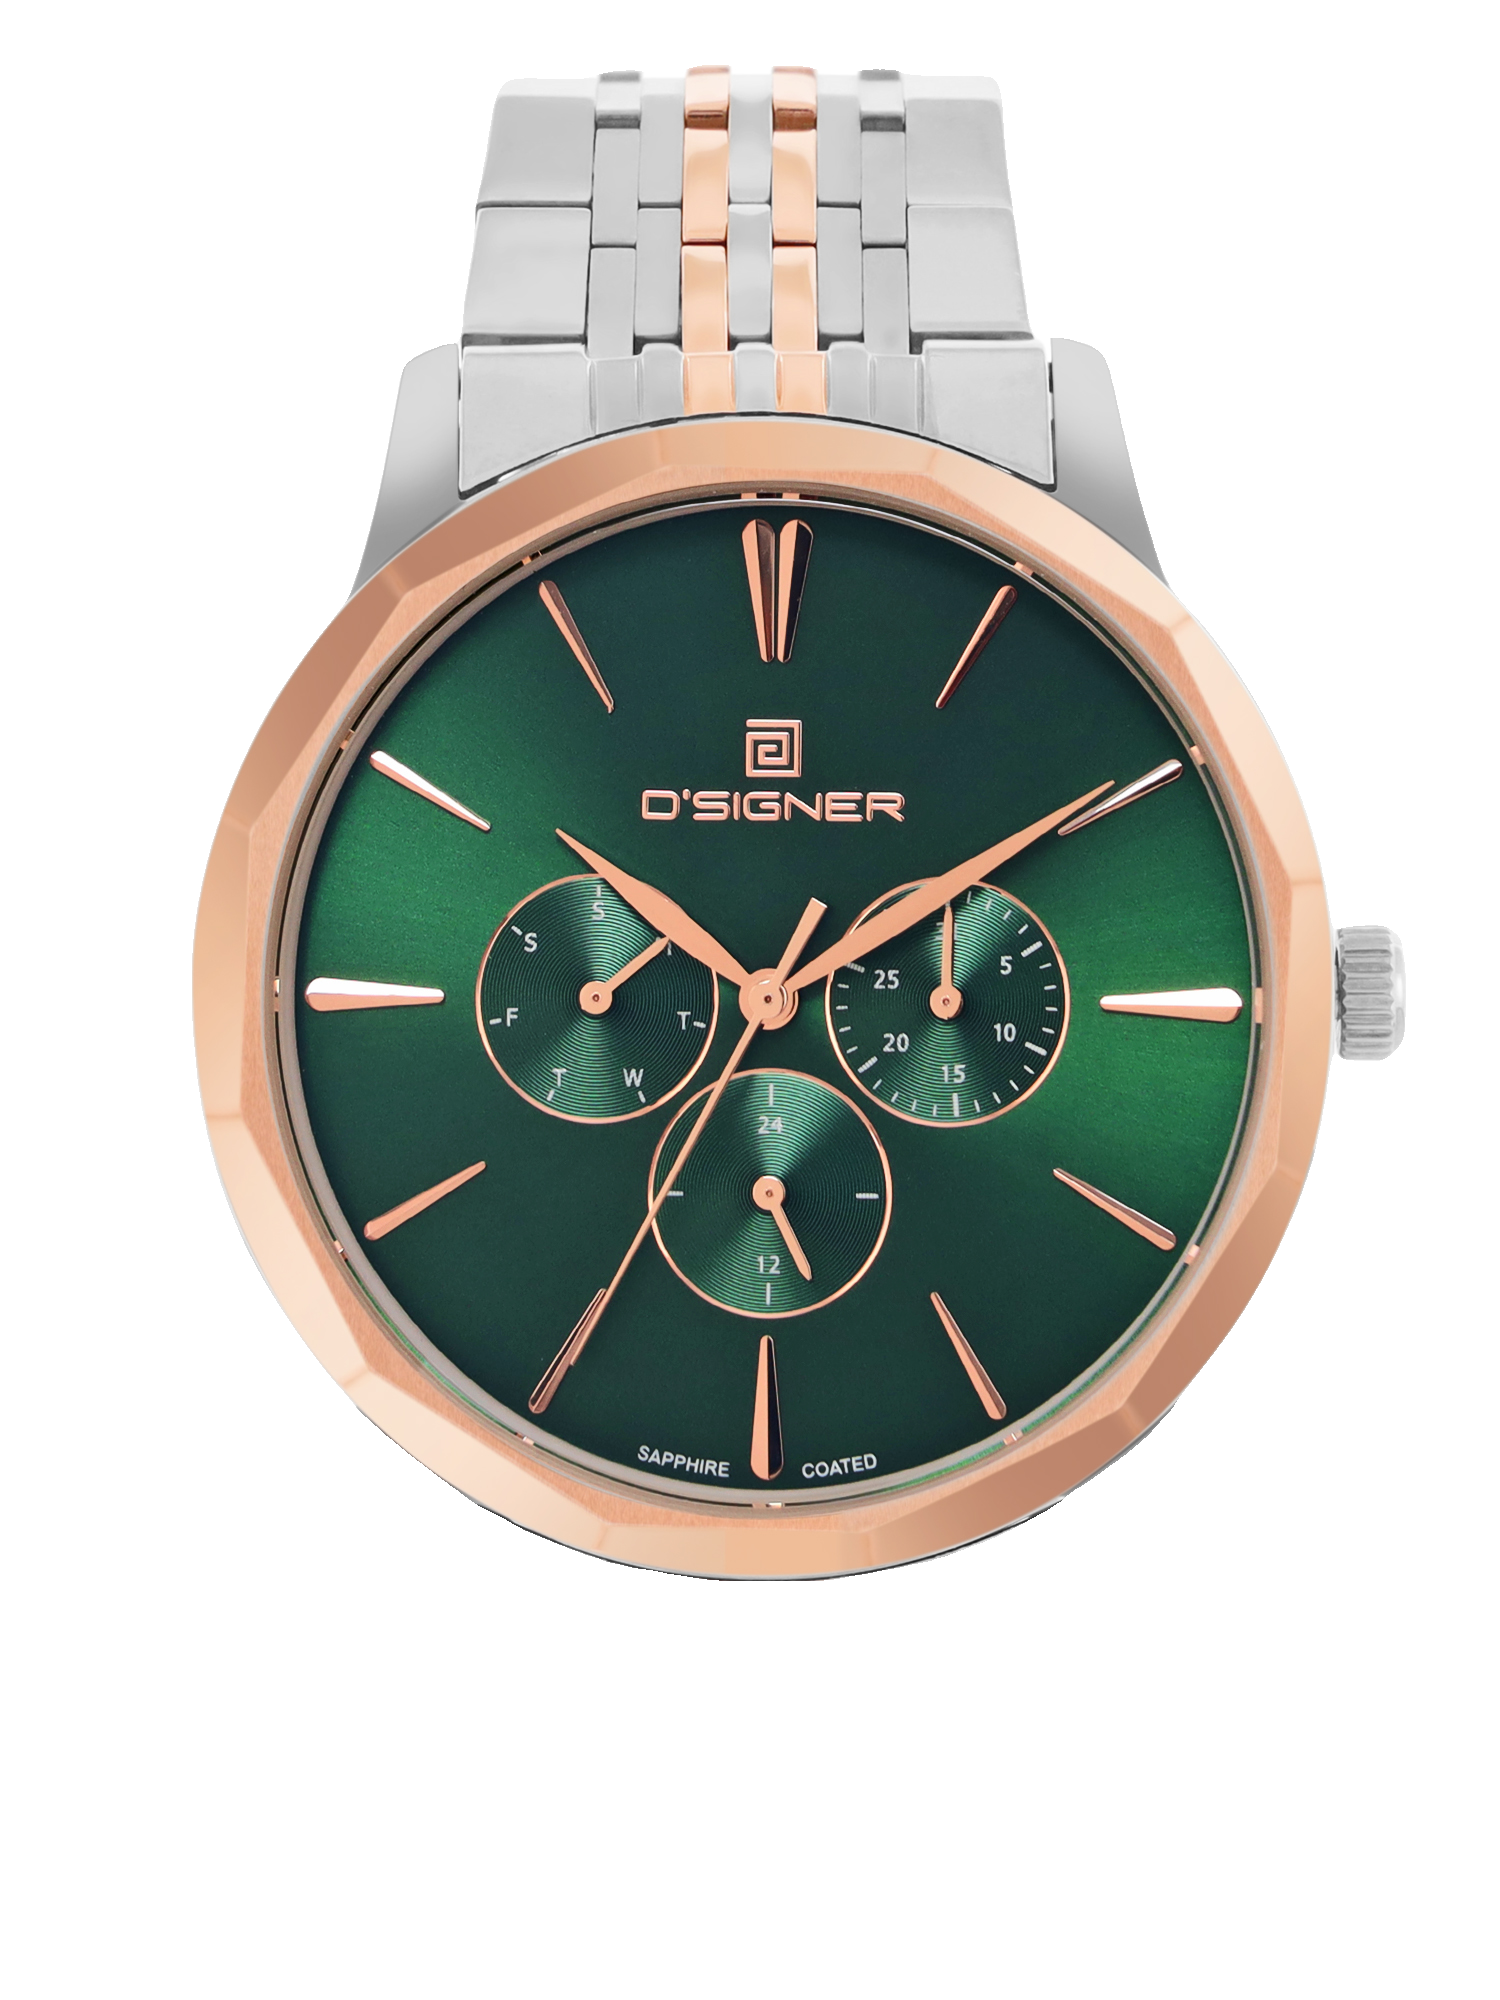
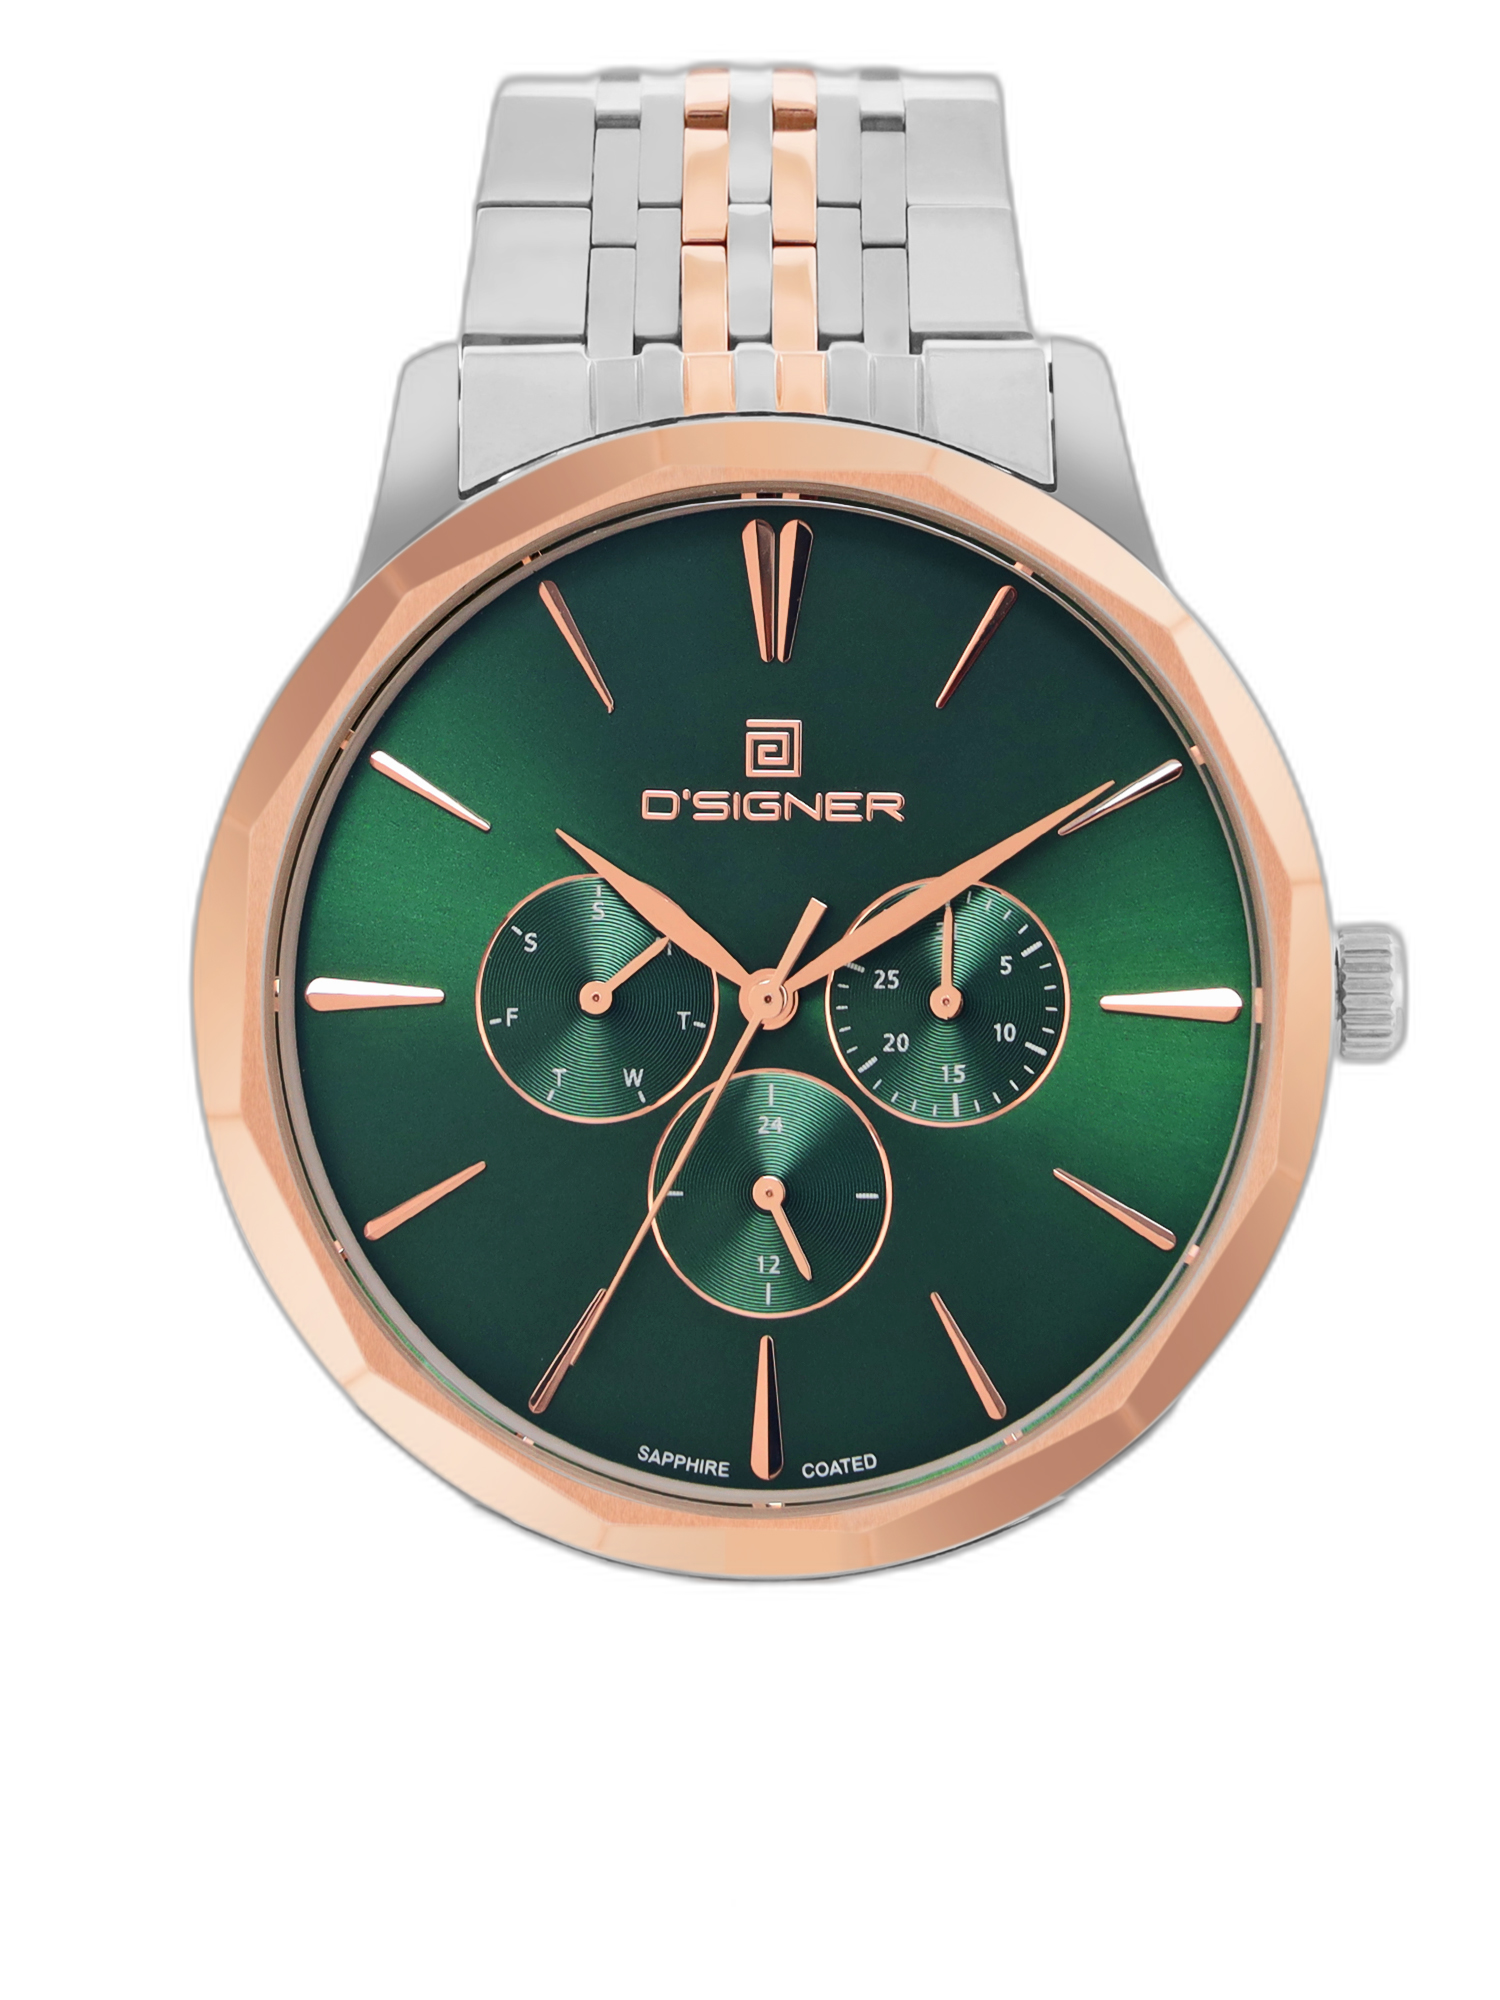
fix(images): isolate transparent backgrounds for all 869RTM.16G gallery perspectives

diff --git a/scripts/process_869rtm_gallery.py b/scripts/process_869rtm_gallery.py
@@ -1,0 +1,39 @@
+import os
+import json
+from PIL import Image
+import numpy as np
+from rembg import remove, new_session
+
+session = new_session("u2net")
+
+model = "869RTM.16G"
+src_dir = f"public/images/new-img/model-2/869/869/{model}"
+dst_dir = f"public/images/transparent-img/model-2/869/869/{model}"
+os.makedirs(dst_dir, exist_ok=True)
+
+with open("src/data/transparent_image_map.json", "r", encoding="utf-8") as f:
+    tmap = json.load(f)
+
+for i in [1, 2, 3, 4]:
+    src_file = f"{src_dir}/869RTM ({i}).jpg"
+    dst_file = f"{dst_dir}/869RTM ({i}).png"
+    
+    if os.path.exists(src_file):
+        print(f"Processing {src_file}...")
+        im = Image.open(src_file)
+        out = remove(im, session=session)
+        out.save(dst_file, format="PNG")
+        
+        arr = np.array(out)
+        corners = [int(arr[0,0,3]), int(arr[0,-1,3]), int(arr[-1,0,3]), int(arr[-1,-1,3])]
+        trans_ratio = float((arr[:,:,3] == 0).mean())
+        print(f"Saved {dst_file} | corners alpha: {corners} | trans: {trans_ratio:.1%}")
+        
+        rel_src = f"/images/new-img/model-2/869/869/{model}/869RTM ({i}).jpg"
+        rel_dst = f"/images/transparent-img/model-2/869/869/{model}/869RTM ({i}).png"
+        tmap[rel_src] = rel_dst
+
+with open("src/data/transparent_image_map.json", "w", encoding="utf-8") as f:
+    json.dump(tmap, f, indent=2)
+
+print("transparent_image_map.json updated successfully!")
